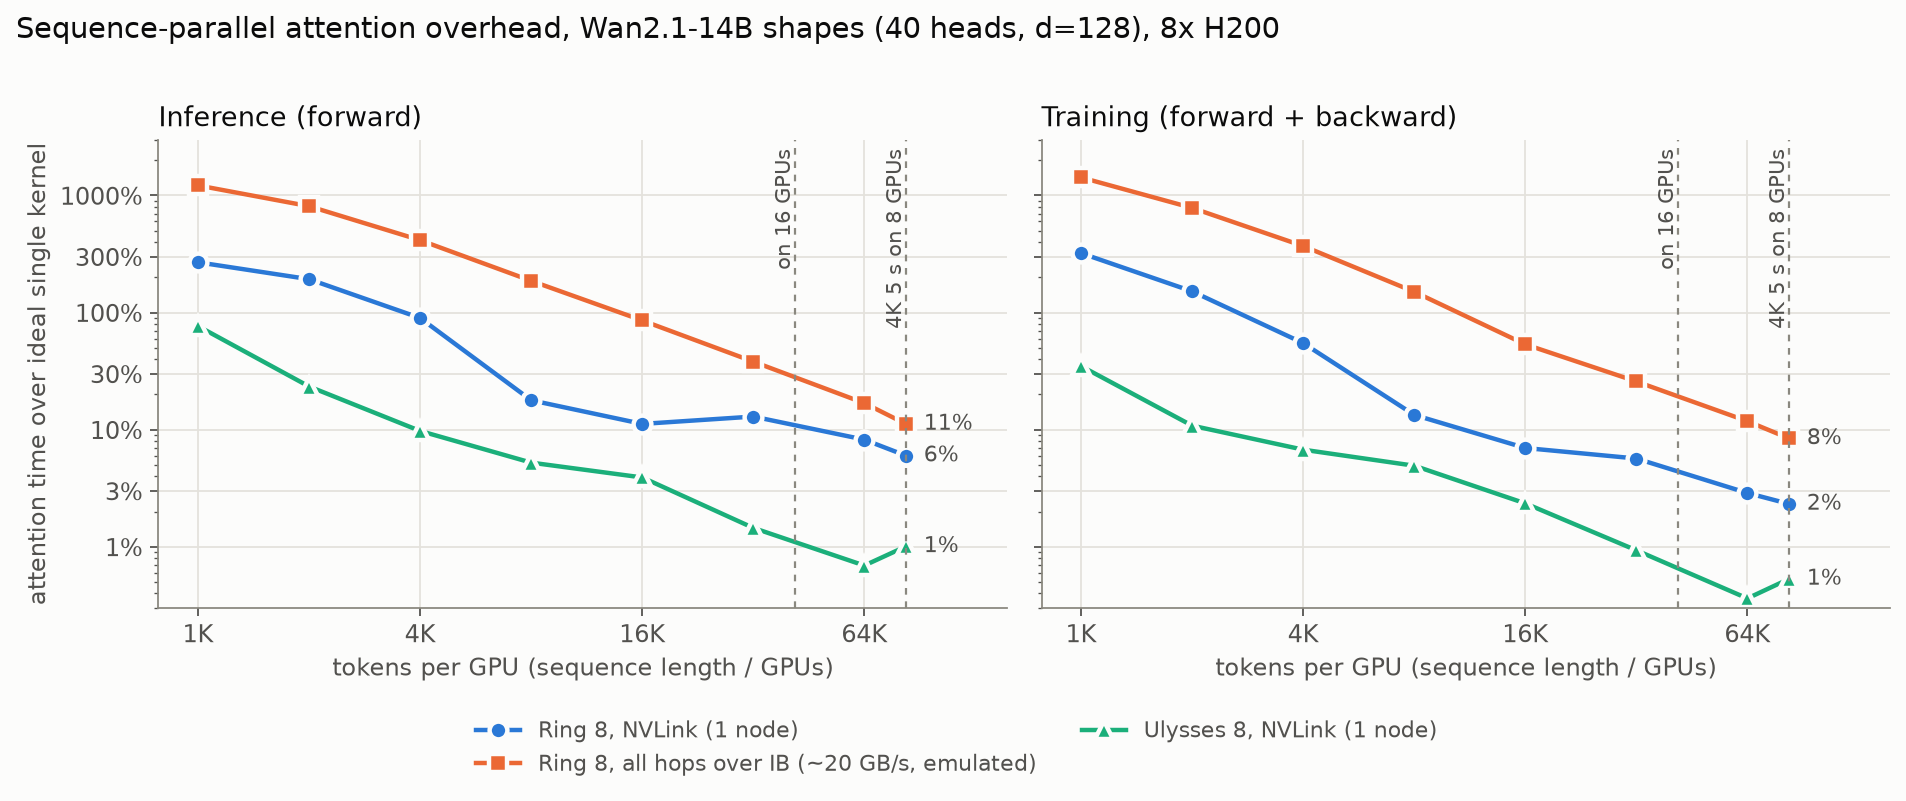
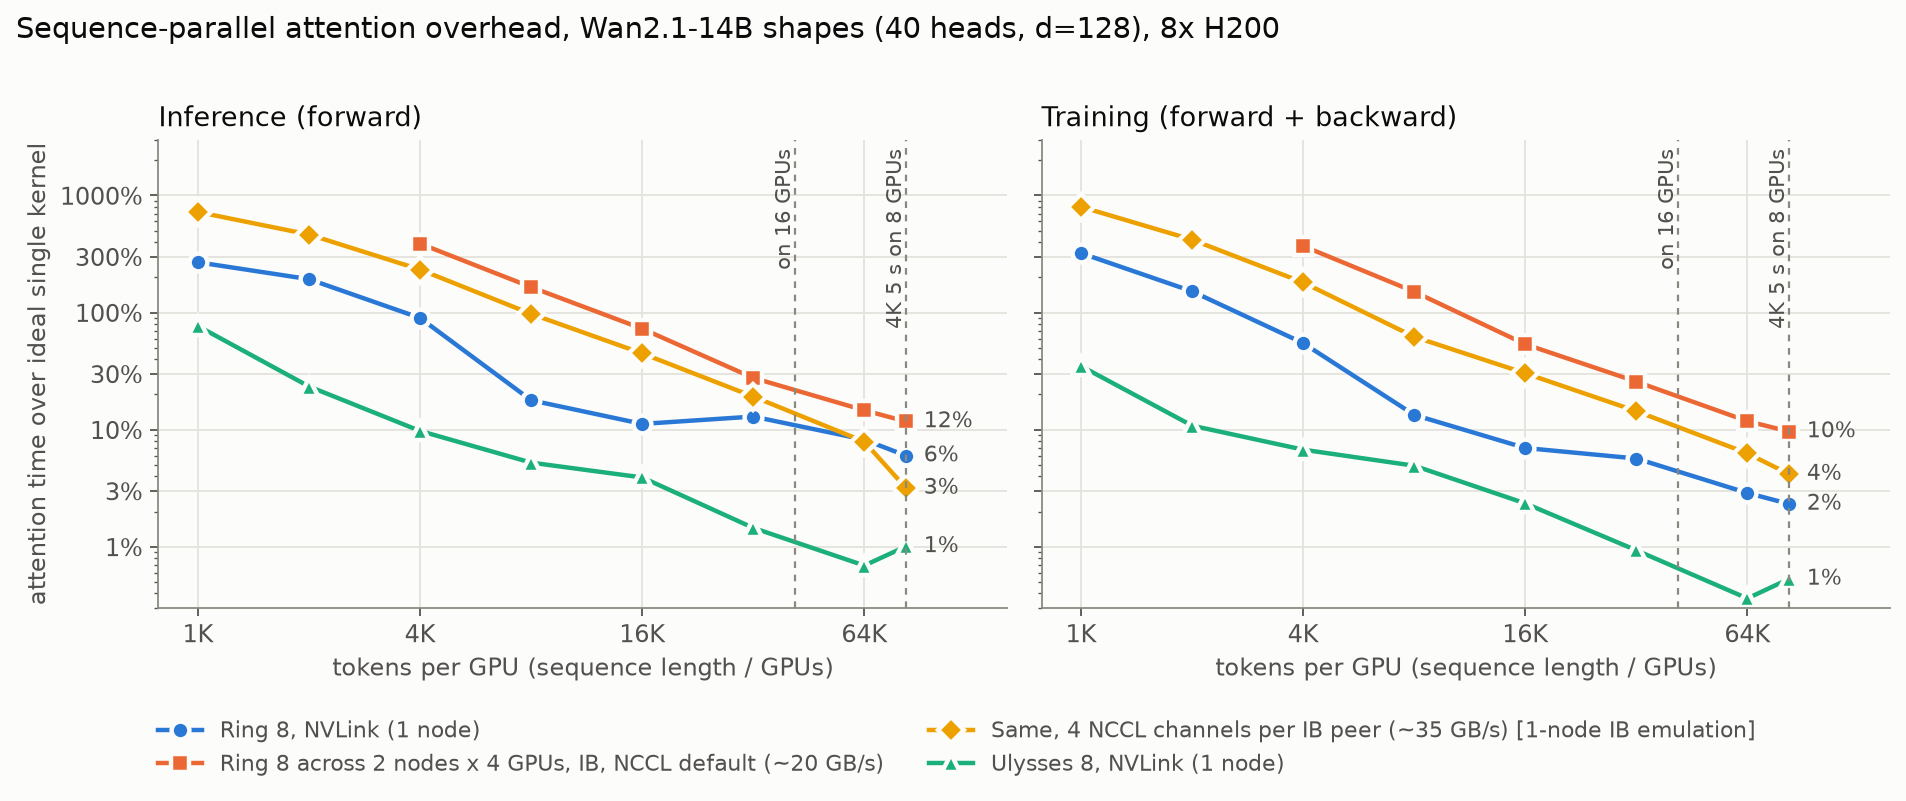
Ring attention: two-node IB measurements, NCCL channels-per-peer finding, refreshed projections

diff --git a/docs/ring_attn_overhead.md b/docs/ring_attn_overhead.md
@@ -1,6 +1,6 @@
-# Ring attention 的开销：单节点实测、IB 实测与多节点投影
+# Ring attention 的开销：单节点实测、两节点 IB 实测与多节点投影
 
-> 2026-10-29。**[实测]** 8×H200（NVLink NV18，每卡一块 400G IB 网卡）；**[估]** 由实测校准的模型投影。
+> 2026-10-29。**[实测]** 8×H200（NVLink NV18，每卡一块 400G IB 网卡）；两节点 × 4 卡（真实 IB）。**[估]** 由实测校准的模型投影。
 > 代码：`.worktrees/ring-attn/experiments/ring_attn/`（分支 `exp/ring-attn`，不 push），原始数据在其 `runs/`。
 
 ## 0. 结论
@@ -8,14 +8,17 @@
 1. **为什么要 ring**：4K 视频的序列太长，一个样本要切到很多卡上；Ulysses 按 head 切，最多切到 head 数（Wan2.1-14B 有 40 个 head，16 卡除不尽），所以超过 8 卡时要么纯 ring，要么 Ulysses（节点内）× ring（跨节点）。ring 训练和推理都要用。
 2. **开销由"每卡 token 数"决定**：每一步 ring，计算 ∝ (每卡 token)²，通信 ∝ 每卡 token，所以每卡 token 越多越容易把通信藏住。
    - 4K、5 s（68 万 token）切 8 卡（每卡 8.5 万）：NVLink 上 ring 只慢 **6%（推理）/ 2%（训练）**；Ulysses 只慢 1%。
-   - 每卡 4K token 时：NVLink 上 ring 慢 **90% / 55%**，所有流量走 IB 时慢 **415% / 370%**。
-3. **跨节点是瓶颈**：同样 8 卡、每卡 1.6 万 token，所有 hop 走 IB（约 20 GB/s/卡）时 ring 慢 **86% / 54%**，NVLink 只慢 11% / 7%。
-4. **ring 实际只能藏住一部分通信**：通信比计算少时，仍有约 30%（推理）/ 40%（训练）的通信暴露出来；8 卡 ring 另有约 9% / 3% 的固定开销（NCCL 和 attention kernel 抢 SM、每步同步）。所以"带宽够就零开销"的理想模型偏乐观。
-5. **NCCL 的 ring 收发在中等消息上很慢**：8 卡 NVLink ring 里，16–64 MB 的消息只有 65–80 GB/s，单独一对卡同样大小有 240 GB/s，≥512 MB 才到 350 GB/s。每卡 token 少时，ring 的 KV 块正好落在这个区间。
-6. **投影（4K、5 s，Wan2.1-14B）**：
-   - 节点之间走 IB 时，纯 ring 16 卡推理多花约 50% 的时间，ring 64 卡多花约 200%；改成 Ulysses 8 × ring 只多 5–35%。
-   - 换成 NVL72 级（0.9 TB/s）或 glass（4 TB/s）的域，所有配置都在约 20% 以内，NVL72 和 glass 差别不大（剩下的是固定开销，不是带宽）。
-   - **稀疏 attention 让 ring 更吃带宽**：计算降到 13.5% 时，IB 上的 Ulysses 8 × ring 8（64 卡）推理多花约 170% 的时间，NVL72 约 20%，glass 约 17%。
+   - 每卡 4K token 时：NVLink 上 ring 慢 **90% / 55%**，跨两节点时慢 **388% / 370%**。
+3. **跨节点是瓶颈（两节点实测）**：8 卡 ring 跨 2 节点 × 4 卡，每卡 1.6 万 token 时慢 **73% / 54%**（NVLink 11% / 7%），每卡 8.5 万 token 时慢 **12% / 10%**（NVLink 6% / 2%）。
+   - ring 的速度由最慢的一跳决定：8 跳里只有 2 跳走 IB，结果和"所有跳都走 IB"的单节点模拟只差几个百分点。
+   - 节点内 Ulysses、节点间 ring（Ulysses 4 × ring 2）只慢 **2% / 2%**；Ulysses 8 直接跨节点也只慢 2% / 1%。
+4. **NCCL 默认设置只用了 IB 的 40%**：ring 的收发每个网络对端默认只开 2 个通道，每卡约 **20 GB/s**（线速 50 GB/s）。设 `NCCL_NCHANNELS_PER_NET_PEER=4` 后到 **35 GB/s**，ring 开销约减半（每卡 1.6 万 token：86% → 45%；8.5 万：11% → 3%，推理，单节点 IB 模拟）。
+5. **ring 实际只能藏住一部分通信**：通信比计算少时，仍有约 35%（推理）/ 40%（训练）的通信暴露出来；8 卡 ring 另有约 9% / 3% 的固定开销（NCCL 和 attention kernel 抢 SM、每步同步）。所以"带宽够就零开销"的理想模型偏乐观。
+6. **NCCL 的 ring 收发在 NVLink 中等消息上很慢**：8 卡 NVLink ring 里，16–64 MB 的消息只有 65–80 GB/s，单独一对卡同样大小有 240 GB/s，≥512 MB 才到 350 GB/s。每卡 token 少时，ring 的 KV 块正好落在这个区间。
+7. **投影（4K、5 s，Wan2.1-14B，推理 | 训练）**：
+   - 节点之间走 IB（NCCL 默认）：纯 ring 16 卡多 26% | 23%，ring 64 卡多 145% | 115%；Ulysses 8 × ring 2–8 只多 3–23%。每个对端开 4 个通道后 ring 16 为 20% | 15%，ring 64 为 64% | 54%。
+   - 换成 NVL72 级（0.9 TB/s）或 glass（4 TB/s）的域，所有 dense 配置都在 17% 以内，NVL72 和 glass 差别不大（剩下的是固定开销，不是带宽）。
+   - **稀疏 attention 让 ring 更吃带宽**：计算降到 13.5% 时，Ulysses 8 × ring 8（64 卡）推理在 IB 上多 115%（默认）/ 48%（4 通道），NVL72 18%，glass 16%；纯 ring 64 是 1315% / 716% / 27% / 18%。
 
 **和项目的关系**：dense 的 4K 视频 attention 计算量太大，带宽好藏；真正吃带宽的是"每卡 token 少"（卡多、序列相对短）和"attention 变稀疏"两种情况。稀疏 attention + ring 把我们之前的稀疏故事从推理扩展到训练：稀疏省了计算，但 ring 每一步仍要传完整的 KV 块，通信藏不住。
 
@@ -27,7 +30,8 @@
 | 4K、5 s | 3840×2160、81 帧 → 21 个 latent 帧 × 135 × 240 = **680,400 token** |
 | 实现 | ring-flash-attn 0.1.8（ring：非 causal；zigzag：causal）+ flash_attn 2.8.4；Ulysses 用 all-to-all + 单卡 flash_attn；USP = Ulysses × ring |
 | 环境 | torch 2.11、NCCL 2.28.9；ring 组同时跑满 8 卡（例如 P=2 时 4 个 ring 并行，和 DP × SP 训练一样） |
-| IB 模拟 | `NCCL_P2P_DISABLE=1 NCCL_SHM_DISABLE=1`：节点内的流量也走网卡（GPUDirect RDMA，经交换机回环），实测约 **20 GB/s/卡**（线速 50 GB/s 的 40%）。真实 2 节点的数见第 5 节 |
+| IB 模拟 | `NCCL_P2P_DISABLE=1 NCCL_SHM_DISABLE=1`：节点内的流量也走网卡（GPUDirect RDMA，经交换机回环），实测约 **20 GB/s/卡**，和第 5 节两节点真实 IB 一致 |
+| 两节点 | lowprio 分区 2 节点 × 4 卡（`ring_2node.sbatch`），GPUDirect RDMA 开启 |
 
 **每个配置测 4 个时间**（单层 attention，每卡，3 次取中位数，取最慢的卡）：
 
@@ -40,7 +44,7 @@
 
 开销 = dist / ideal − 1；整层开销 = (dist − ideal) / (ideal + 线性层)。68 万 token 时 attention 占整层 98%，所以两者几乎一样。
 
-正确性：ring / zigzag / Ulysses 的输出和梯度与单卡 flash_attn 的相对误差都 < 1%（bf16 精度）。
+正确性：ring / zigzag / Ulysses 的输出和梯度与单卡 flash_attn 的相对误差都 < 1%（bf16 精度），单节点和两节点都验证过。
 
 ## 2. 单节点结果（8 卡，P = 8）
 
@@ -57,69 +61,98 @@ attention 开销 / 整层开销，推理（forward）| 训练（forward + backwa
 | ring（dense） | IB 模拟 | 415% / 287% \| 370% / 273% | 86% / 76% \| 54% / 49% | 11% / 11% \| 8% / 8% |
 | zigzag（causal） | IB 模拟 | 775% / 425% \| 704% / 435% | 174% / 142% \| 141% / 121% | 16% / 15% \| 18% / 18% |
 | Ulysses（dense） | IB 模拟 | 54% / 37% \| 26% / 19% | 12% / 11% \| 7% / 6% | 3% / 2% \| 1% / 1% |
+| ring（dense） | IB 模拟，4 通道 | 233% / 161% \| 181% / 135% | 45% / 40% \| 30% / 28% | 3% / 3% \| 4% / 4% |
+| zigzag（causal） | IB 模拟，4 通道 | 436% / 239% \| 369% / 231% | 88% / 72% \| 56% / 48% | 4% / 4% \| 10% / 9% |
 
-- **Ulysses 一直比 ring 便宜**：Ulysses 每卡收发的量和卡数无关（约 4 × 每卡 token），ring 每卡要收齐其他所有卡的 KV（约 2 × (P−1) × 每卡 token），8 卡时是 Ulysses 的约 4 倍。只是 Ulysses 受 head 数限制。
+- **Ulysses 一直比 ring 便宜**：Ulysses 每卡收发的量和卡数无关（约 4 × 每卡 token），ring 每卡要收齐其他所有卡的 KV（约 2 × (P−1) × 每卡 token），8 卡时是 Ulysses 的约 4 倍。只是 Ulysses 受 head 数限制。4 通道对 Ulysses 没有帮助（all-to-all 本来就同时连着多个对端）。
 - **causal 比 dense 更难藏**：causal 每步计算减半，通信不变，所以平衡点翻倍。
-- **训练比推理好藏**：训练整步的计算是 forward 的 3.5 倍，通信约 4 倍（KV 再传一次 + fp32 的 dK、dV），比例接近；但 backward 每一步的计算更长，实测能藏住的通信更多（3.1 节 η 0.80 vs 0.48）。
+- **训练比推理好藏**：训练整步的计算是 forward 的 3.5 倍，通信约 4 倍（KV 再传一次 + fp32 的 dK、dV），比例接近；但 backward 每一步的计算更长，实测能藏住的通信更多（3.1 节 η 0.80 vs 0.50）。
+- 每卡 85K token 时，4 通道的 IB（3%）反而比 NVLink（6%）低。推测是 NVLink 上 NCCL 用 SM 拷贝、和 attention 抢 SM，而 IB 走 RDMA 占的 SM 少；未验证。
 
 ## 3. 开销从哪来
 
 ### 3.1 通信 / 计算比 x 决定大部分开销
 
-把每个配置的"暴露时间" (dist − compute) / compute 对 x = comm / compute 画出来，NVLink 和 IB 模拟落在同一条线上，拟合为：
+把每个配置的"暴露时间" (dist − compute) / compute 对 x = comm / compute 画出来，NVLink、IB 模拟和两节点落在同一条线上，拟合为：
 
 暴露 / 计算 = max(β·x, x − η) + φ
 
 | | β（x < 1 时暴露的份额） | η（x > 1 时能藏住的计算时间） | φ（8 卡 ring 的固定开销） |
 |---|---:|---:|---:|
-| 推理 | 0.30 | 0.48 | 8.7% |
-| 训练 | 0.42 | 0.80 | 3.2% |
+| 推理 | 0.36 | 0.50 | 8.7% |
+| 训练 | 0.40 | 0.80 | 3.2% |
 
 - 理想重叠是 β = 0、η = 1：通信比计算少就完全藏住。实测只藏住一部分，因为 NCCL 的收发内核和 attention 同时占用 SM，且 ring 每一步都要等最慢的卡。
-- φ 只出现在 ≥ 3 卡的 ring（2 卡没有），和带宽无关：每卡 8.5 万 token 时传输时间只占计算的 1%，开销仍有 6–9%。**更快的互连去不掉这一部分。**
+- φ 只出现在 ≥ 3 卡的 ring（2 卡没有），和带宽无关：每卡 8.5 万 token 时 NVLink 传输时间只占计算的 1%，开销仍有 6–9%。**更快的互连去不掉这一部分。**
 
 ### 3.2 NCCL ring 收发的带宽（`bench_p2p.py`）
 
-| 每条消息 | 8 卡 ring（NVLink） | 单独一对卡（NVLink） | 8 卡 ring（IB 模拟） |
-|---:|---:|---:|---:|
-| 16 MB | 67 GB/s | 146 GB/s | 18 GB/s |
-| 64 MB | 79 GB/s | 241 GB/s | 19 GB/s |
-| 128 MB | 156 GB/s | 274 GB/s | 19 GB/s |
-| 512 MB | 351 GB/s | — | 20 GB/s |
+每卡收到的 GB/s：
 
-- ring 的一个 KV 块 = 每卡 token × 40 head × 128 × 2 B，每卡 4K token 时是 42 MB，正好在最慢的区间。
-- 试过 `NCCL_MIN_P2P_NCHANNELS`、`NCCL_P2P_NVL_CHUNKSIZE`、`NCCL_P2P_SCHEDULE_GROUP_SIZE`，都没有改善；`NCCL_P2P_USE_CUDA_MEMCPY`（copy engine，不占 SM）在所有大小都只有约 70 GB/s。
-- 原因未确认。现象是 ≥ 3 卡的 ring（每卡同时发给一个邻居、从另一个邻居收）比 2 卡互发慢 2–3 倍。把 K 和 V 合成一条消息可以越过 128 MB 的台阶。
+| 每条消息 | 8 卡 ring（NVLink） | 单独一对卡（NVLink） | 8 卡 ring（IB 模拟） | 8 卡 ring 跨 2 节点 | 跨节点 4 对同时 | 8 卡 ring（IB 模拟，4 通道） |
+|---:|---:|---:|---:|---:|---:|---:|
+| 16 MB | 67 | 146 | 18 | 18 | 17 | 30 |
+| 64 MB | 79 | 241 | 19 | 19 | 18 | 34 |
+| 128 MB | 156 | 274 | 19 | 19 | 19 | 34 |
+| 512 MB | 351 | — | 20 | 20 | 17 | 35 |
+
+- ring 的一个 KV 块 = 每卡 token × 40 head × 128 × 2 B，每卡 4K token 时是 42 MB。
+- **NVLink**：≥ 3 卡的 ring（每卡同时发给一个邻居、从另一个邻居收）在 16–128 MB 比 2 卡互发慢 2–3 倍。试过 `NCCL_MIN_P2P_NCHANNELS`、`NCCL_P2P_NVL_CHUNKSIZE`、`NCCL_P2P_SCHEDULE_GROUP_SIZE`，都没有改善；`NCCL_P2P_USE_CUDA_MEMCPY`（copy engine，不占 SM）在所有大小都只有约 70 GB/s。原因未确认。
+- **IB**：默认每卡只有约 20 GB/s，和单节点模拟、跨节点 ring、跨节点成对都一样，所以不是网卡共用或拓扑的问题，而是 NCCL 每个网络对端默认只开 2 个通道（`NCCL_NCHANNELS_PER_NET_PEER`）。改成 4 到 35 GB/s，8 也是 35 GB/s。
 
 ## 4. 投影：4K、5 s，Wan2.1-14B [估]
 
-模型（`model_ring.py`）：每步通信时间用实测的带宽–消息大小曲线；暴露时间用 3.1 节的拟合；拆内核的开销按每卡 token 数取实测值。在实测数据上的误差：每卡 ≥ 8K token 时中位数 2.5%（NVLink）/ 4.3%（IB 模拟），最大 13% / 19%。NVL72 和 glass 用 NVLink 单对卡曲线的形状、按峰值缩放，计算按 H200。
+模型（`model_ring.py`）：每步通信时间用实测的带宽–消息大小曲线；暴露时间用 3.1 节的拟合；拆内核的开销按每卡 token 数取实测值。在实测数据上的误差（每卡 ≥ 8K token）：中位数 2.8%（NVLink）/ 4.1%（IB 模拟）/ 4.2%（IB 模拟，4 通道）/ 3.0%（两节点）；最大 15% / 19% / 16% / 50%（两节点最大的一个是第 5 节的网络抖动点）。NVL72 和 glass 用 NVLink 单对卡曲线的形状、按峰值缩放，计算按 H200。
 
-attention 开销，推理 | 训练（单节点配置三列相同）：
+attention 开销，推理 | 训练（单节点配置各列相同）：
 
-| 配置 | 卡数 | 节点间 IB（模拟，20 GB/s） | NVL72 级（0.9 TB/s） | glass（4 TB/s） |
-|---|---:|---|---|---|
-| ring 8（1 节点） | 8 | 10% \| 4% | 10% \| 4% | 10% \| 4% |
-| Ulysses 8（1 节点） | 8 | 0% \| 0%（实测 1% \| 1%） | 同左 | 同左 |
-| ring 16 | 16 | 53% \| 24% | 12% \| 5% | 11% \| 5% |
-| Ulysses 8 × ring 2 | 16 | 5% \| 4% | 2% \| 2% | 2% \| 2% |
-| Ulysses 8 × ring 4 | 32 | 21% \| 11% | 13% \| 7% | 13% \| 7% |
-| Ulysses 8 × ring 8 | 64 | 36% \| 21% | 16% \| 12% | 16% \| 12% |
-| ring 64 | 64 | 195% \| 111% | 20% \| 14% | 17% \| 13% |
-| **稀疏（计算 13.5%）**：Ulysses 8 × ring 8 | 64 | 166% \| 89% | 20% \| 14% | 17% \| 13% |
-| **稀疏**：ring 64 | 64 | 1346% \| 1305% | 48% \| 26% | 23% \| 15% |
+| 配置 | 卡数 | IB，NCCL 默认（20 GB/s） | IB，4 通道（35 GB/s） | NVL72 级（0.9 TB/s） | glass（4 TB/s） |
+|---|---:|---|---|---|---|
+| ring 8（1 节点） | 8 | 9% \| 4%（实测 6% \| 2%） | 同左 | 同左 | 同左 |
+| Ulysses 8（1 节点） | 8 | 0% \| 0%（实测 1% \| 1%） | 同左 | 同左 | 同左 |
+| ring 16 | 16 | 26% \| 23% | 20% \| 15% | 11% \| 5% | 11% \| 5% |
+| Ulysses 8 × ring 2 | 16 | 3% \| 4% | 3% \| 3% | 2% \| 2% | 2% \| 2% |
+| Ulysses 8 × ring 4 | 32 | 16% \| 11% | 15% \| 9% | 13% \| 7% | 13% \| 7% |
+| Ulysses 8 × ring 8 | 64 | 23% \| 21% | 20% \| 17% | 16% \| 12% | 16% \| 12% |
+| ring 64 | 64 | 145% \| 115% | 64% \| 54% | 17% \| 14% | 16% \| 12% |
+| **稀疏（计算 13.5%）**：ring 16 | 16 | 272% \| 258% | 135% \| 110% | 13% \| 8% | 12% \| 6% |
+| **稀疏**：Ulysses 8 × ring 8 | 64 | 115% \| 92% | 48% \| 50% | 18% \| 14% | 16% \| 13% |
+| **稀疏**：ring 64 | 64 | 1315% \| 1331% | 716% \| 707% | 27% \| 25% | 18% \| 15% |
 
-- **平衡点**（每个 ring 成员至少要多少 token 才藏得住通信，= 算力 / 带宽，causal 翻倍）：H200 NVLink 约 1.0K，IB 模拟约 19K，NVL72 约 0.4K，glass 约 0.1K。换成 GB300 级算力（约 2.5×）时都乘 2.5，IB 上约 47K，比 4K 视频切 16 卡后每卡的 42K 还多。
-- 算力越快，越吃带宽：GB300 级算力下，节点间 IB 的纯 ring 16 推理开销从约 53% 涨到约 66%，稀疏时约 735%。
-- NVL72 和 glass 在 dense 下几乎一样：剩下的是 3.1 节的固定开销和拆内核开销，和带宽无关。glass 的优势只在"稀疏 + 卡多"时明显（ring 64 稀疏：48% → 23%）。
+- **平衡点**（每个 ring 成员至少要多少 token 才藏得住通信，= 算力 / 带宽，causal 翻倍）：H200 NVLink 约 1.0K，IB 默认约 19K，IB 4 通道约 11K，NVL72 约 0.4K，glass 约 0.1K。
+- **算力越快，越吃带宽**：换成 GB300 级算力（约 2.5×）时平衡点都乘 2.5，IB 默认约 48K、4 通道约 27K；4K 视频切 16 卡后每卡只有 42K。此时 ring 16 推理在 IB 上多 65%（默认）/ 32%（4 通道），稀疏时多 741% / 398%；NVL72 和 glass 仍是 12% / 11%（稀疏 17% / 12%）。
+- NVL72 和 glass 在 dense 下几乎一样：剩下的是 3.1 节的固定开销和拆内核开销，和带宽无关。glass 的优势只在"稀疏 + 卡多"时明显（ring 64 稀疏：27% → 18%；GB300 级算力下 45% → 22%）。
 
-## 5. 两节点实测（真实 IB）
+## 5. 两节点实测（真实 IB，2 节点 × 4 卡）
 
-**待补**：作业 `ring_2node.sbatch`（2 节点 × 4 卡，lowprio）在排队。测量内容：ring 8 跨两节点、Ulysses 4 × ring 2、跨节点 2 卡 ring（4 对同时）、真实 IB 的带宽–消息大小曲线。
+lowprio 作业，NCCL 默认设置。attention 开销 / 整层开销，推理 | 训练：
+
+| 实现 | 每卡 4K token | 每卡 16K | 每卡 85K（4K 视频） |
+|---|---|---|---|
+| ring 8（2 跳跨节点） | 388% / 268% \| 370% / 275% | 73% / 65% \| 54% / 49% | **12% / 12% \| 10% / 10%** |
+| zigzag 8（causal） | 737% / 406% \| 707% / 443% | 163% / 133% \| 142% / 121% | 19% / 19% \| 19% / 18% |
+| Ulysses 4 × ring 2（ring 跨节点） | 67% / 46% \| 55% / 41% | 16% / 14% \| 14% / 13% | **2% / 2% \| 2% / 2%** |
+| Ulysses 8（all-to-all 跨节点） | 46% / 32% \| 23% / 17% | 6% / 6% \| 6% / 6% | 2% / 2% \| 1% / 1% |
+
+跨节点 2 卡 ring（4 对同时，每对一卡在一个节点）：每卡 32K / 64K token 时训练开销 17% / 8%，和单节点 IB 模拟（16% / 8%）一致；128K 时 4%。
+
+和单节点 IB 模拟对比（8 卡 ring，推理 | 训练）：
+
+| 每卡 token | 4K | 16K | 32K | 85K |
+|---|---|---|---|---|
+| IB 模拟（所有跳走 IB） | 415% \| 370% | 86% \| 54% | 38% \| 26% | 11% \| 8% |
+| 两节点（2 跳走 IB） | 388% \| 370% | 73% \| 54% | 28% \| 26% | 12% \| 10% |
+
+- **单节点模拟可信**：每卡 ≥ 16K token 时两者差 0–13 个百分点，训练几乎一样。ring 的每一步要等最慢的一跳，所以只要有一跳走 IB，整个 ring 就按 IB 的速度走。
+- **USP 是跨节点的正确做法**：Ulysses 4 × ring 2 在每卡 85K token 时只多 2%，比纯 ring 8 的 12% / 10% 少得多。ring 只剩跨节点的 2 卡环：只轮转 1 步（纯 ring 8 要 7 步），每步传的量和纯 ring 一样，但每步的计算是纯 ring 的 4 倍（每个 ring 成员 N/2 个 token × 10 个 head，对比 N/8 × 40），通信更好藏；而且 2 卡环没有 3.1 节的固定开销 φ。
+- 两个点受网络抖动影响，表里没列：USP 每卡 8K token 推理 70%（这次的带宽只有 10 GB/s），跨节点 2 卡 ring 每卡 16K 推理 39%（12 GB/s）。
+- 分配到的 4 张卡不一定挨着自己的网卡（NCCL 报告距离 4，不是同一 PCIe 交换机），有两张卡共用一块网卡；但带宽和整节点的模拟一样是 20 GB/s，瓶颈是第 3.2 节的通道数。
+- 4 通道（`NCCL_NCHANNELS_PER_NET_PEER=4`）的两节点作业在排队；目前 4 通道的数都来自单节点模拟。
 
 ## 6. 局限
 
-- IB 模拟只有约 20 GB/s/卡，低于线速 50 GB/s，第 4 节的 IB 列偏悲观，待第 5 节校准。
+- 4 通道的 IB 数目前只在单节点模拟上测过；默认设置下模拟和真实两节点一致，所以预计 4 通道也一致，待两节点作业确认。
+- 只测了 2 节点 × 4 卡；16 卡以上靠第 4 节的模型。
 - 只测了 attention 层；没有建模 Ulysses 和线性层、FSDP 通信的重叠。
 - NVL72 / glass 的投影沿用 H200 上实测的固定开销和重叠份额，并假设 NCCL 在这些链路上没有 3.2 节的中等消息问题。
 - ring-flash-attn 是常用的参考实现，不是最优实现：例如 K、V 分两条消息发，backward 用 fp32 传 dK、dV。更好的实现（合并消息、用 copy engine、双缓冲）可能降低固定开销。
@@ -132,9 +165,13 @@ cd .worktrees/ring-attn/experiments/ring_attn && source env.sh
 torchrun --nproc_per_node=8 bench_ring.py --check --out /dev/null --tag check   # 正确性
 ./run_ring.sh nvlink          # 单节点 NVLink 扫描
 ./run_ring.sh ib-emu          # 所有流量走 IB 网卡
+./run_ring.sh ib-emu-np4      # 同上，NCCL 每个网络对端 4 个通道
 torchrun --nproc_per_node=8 bench_p2p.py --out runs/p2p.jsonl --tag nvlink
-sbatch --partition=lowprio --qos=lowprio ring_2node.sbatch                       # 2 节点 × 4 卡
-python3 analyze_ring.py runs/nvlink.jsonl runs/ib-emu.jsonl                      # 表格
-python3 model_ring.py --bench runs/nvlink.jsonl runs/ib-emu.jsonl --p2p runs/p2p.jsonl [--gpu-scale 2.5]
-python3 plot_ring.py runs/nvlink.jsonl runs/ib-emu.jsonl --out <main>/docs/figures/ring_attn_overhead.png
+sbatch --partition=lowprio --qos=lowprio ring_2node.sbatch                                                 # 2 节点 × 4 卡
+TAG=ib-2node-np4 NCCL_NCHANNELS_PER_NET_PEER=4 sbatch --partition=lowprio --qos=lowprio ring_2node.sbatch  # 同上，4 通道
+python3 analyze_ring.py runs/*.jsonl                                                   # 表格
+python3 model_ring.py --bench runs/{nvlink,ib-emu,ib-emu-np4,ib-2node-8gpu}.jsonl --p2p runs/p2p.jsonl [--gpu-scale 2.5]
+python3 plot_ring.py runs/nvlink.jsonl runs/ib-2node-8gpu.jsonl runs/ib-emu-np4.jsonl --out <main>/docs/figures/ring_attn_overhead.png
 ```
+
+从交互作业（如 debug 节点）里提交 sbatch 时，作业会继承当前 shell 的 CPU 绑定，`srun` 报 "CPU binding outside of job step allocation"；`ring_2node.sbatch` 已经清掉这些变量并用 `--cpu-bind=none`。
